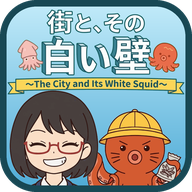
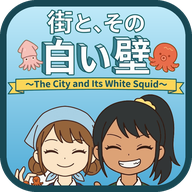
アイコンの 顔を チカと マキの 二人組に
Claude-Session: https://claude.ai/code/session_014rRhJFuEZwJnnUphhSEvc4

diff --git a/tools/make_icons.py b/tools/make_icons.py
@@ -1,17 +1,17 @@
 # -*- coding: utf-8 -*-
 """
-ナオと タコ一郎の 顔と、タイトルロゴ「街と、その白い壁」から、アプリの アイコン一式を つくる。
+チカと マキの 顔と、タイトルロゴ「街と、その白い壁」から、アプリの アイコン一式を つくる。
 （前作 cat-on-escape の tools/make_icons.py と おなじ 図がら）
 
-・海と 空の 色の 角丸の 上に、ロゴ（上）と ナオ・タコ一郎の 顔（下）を ならべる
+・海と 空の 色の 角丸の 上に、ロゴ（上）と チカ・マキの 顔（下）を ならべる
 ・小さい アイコン（64px 以下）は ロゴの 文字が つぶれるので、顔だけに する
 ・app/images/icon-32 / 180 / 192 / 512.png と、紹介ページ用の
   assets/icon.png（512px）・assets/favicon.png（64px）を 書き出す
 
 つかいかた:
-    python3 tools/make_icons.py [ナオの立ち絵] [タコ一郎の立ち絵] [ロゴ]
+    python3 tools/make_icons.py [チカの立ち絵] [マキの立ち絵] [ロゴ]
 例（なにも わたさなければ これ）:
-    python3 tools/make_icons.py app/images/story/nao-happy.png app/images/story/tako1-normal.png app/images/story/logo.png
+    python3 tools/make_icons.py app/images/story/chika-happy.png app/images/story/maki-happy.png app/images/story/logo.png
 
 必要なもの: pillow, numpy （pip install pillow numpy）
 """
@@ -62,32 +62,32 @@ def sky():
     return Image.fromarray(img, 'RGB').convert('RGBA')
 
 
-def place_heads(canvas, nao, tako, box_top, box_bottom, width_ratio):
-    """ナオ（左）と タコ一郎（右・すこし 小さく）の 顔を、下に そろえて ならべる"""
-    nao_h = box_bottom - box_top
-    tako_h = int(nao_h * 0.82)
-    nao = nao.resize((int(nao.width * nao_h / nao.height), nao_h), Image.LANCZOS)
-    tako = tako.resize((int(tako.width * tako_h / tako.height), tako_h), Image.LANCZOS)
-    overlap = int(tako.width * 0.12)            # すこし 重ねて なかよく
-    total = nao.width + tako.width - overlap
+def place_heads(canvas, left, right, box_top, box_bottom, width_ratio):
+    """チカ（左・小がら）と マキ（右・大がら）の 顔を、下に そろえて ならべる"""
+    right_h = box_bottom - box_top
+    left_h = int(right_h * 0.88)                  # チカは すこし 小さく（背の ちがい）
+    left = left.resize((int(left.width * left_h / left.height), left_h), Image.LANCZOS)
+    right = right.resize((int(right.width * right_h / right.height), right_h), Image.LANCZOS)
+    overlap = int(right.width * 0.16)            # すこし 重ねて なかよく
+    total = left.width + right.width - overlap
     scale = min(1.0, BASE * width_ratio / total)
     if scale < 1:
-        nao = nao.resize((int(nao.width * scale), int(nao.height * scale)), Image.LANCZOS)
-        tako = tako.resize((int(tako.width * scale), int(tako.height * scale)), Image.LANCZOS)
+        left = left.resize((int(left.width * scale), int(left.height * scale)), Image.LANCZOS)
+        right = right.resize((int(right.width * scale), int(right.height * scale)), Image.LANCZOS)
         overlap = int(overlap * scale)
-        total = nao.width + tako.width - overlap
+        total = left.width + right.width - overlap
     x0 = (BASE - total) // 2
-    canvas.alpha_composite(tako, (x0 + nao.width - overlap, box_bottom - tako.height))
-    canvas.alpha_composite(nao, (x0, box_bottom - nao.height))
+    canvas.alpha_composite(left, (x0, box_bottom - left.height))
+    canvas.alpha_composite(right, (x0 + left.width - overlap, box_bottom - right.height))
 
 
-def build(nao_path, tako_path, logo_path, small):
+def build(left_path, right_path, logo_path, small):
     canvas = sky()
-    nao, tako = head_of(nao_path), head_of(tako_path, 0.9)
+    left, right = head_of(left_path), head_of(right_path)
     if small:
-        place_heads(canvas, nao, tako, int(BASE * 0.06), BASE, 1.04)
+        place_heads(canvas, left, right, int(BASE * 0.06), BASE, 1.04)
     else:
-        place_heads(canvas, nao, tako, int(BASE * 0.47), BASE, 0.92)
+        place_heads(canvas, left, right, int(BASE * 0.49), BASE, 0.92)
         logo = Image.open(logo_path).convert('RGBA')
         w = int(BASE * 0.92)
         logo = logo.resize((w, int(logo.height * w / logo.width)), Image.LANCZOS)
@@ -102,15 +102,15 @@ def build(nao_path, tako_path, logo_path, small):
 
 def main():
     args = sys.argv[1:]
-    nao = args[0] if len(args) > 0 else 'app/images/story/nao-happy.png'
-    tako = args[1] if len(args) > 1 else 'app/images/story/tako1-normal.png'
+    left = args[0] if len(args) > 0 else 'app/images/story/chika-happy.png'
+    right = args[1] if len(args) > 1 else 'app/images/story/maki-happy.png'
     logo = args[2] if len(args) > 2 else 'app/images/story/logo.png'
-    for p in (nao, tako, logo):
+    for p in (left, right, logo):
         if not os.path.exists(p):
             print(f'× {p} が ありません')
             return 1
-    big = build(nao, tako, logo, small=False)
-    small = build(nao, tako, logo, small=True)
+    big = build(left, right, logo, small=False)
+    small = build(left, right, logo, small=True)
     for path, size in OUT:
         os.makedirs(os.path.dirname(path), exist_ok=True)
         (small if size <= SMALL else big).resize((size, size), Image.LANCZOS).save(path, optimize=True)

diff --git a/README.md b/README.md
@@ -36,7 +36,7 @@
 | `app/images/story/` | ストーリーの背景と立ち絵。台の 上の タコ・イカの 顔にも 使う（無くても 単色と名前の札で遊べる）。背景は 会話の 場面だけで、ゲームの 画面は 空色の 台 |
 | `tools/sim_check.js` | node で、24レベル すべてが 置いた ままで 動かないか・1回 以内の はねかえりで あたる 道が あるか・1マスの せまい 通路が ないか・毎回 いちばん よい 投げで 入れた タコ 以内に 勝てるかを 確かめる |
 | `tools/make_sprite.py` | 生成AIが出した立ち絵（上半身）を、グリッドから切り分けて背景を抜き、512pxにそろえる |
-| `tools/make_icons.py` | タイトルロゴと ナオ・タコ一郎の 顔から アプリのアイコン一式をつくる（前作と おなじ 図がら） |
+| `tools/make_icons.py` | タイトルロゴと チカ・マキの 顔から アプリのアイコン一式をつくる（前作と おなじ 図がら） |
 | `tools/fetch_goods.py` | 紹介ページの本・グッズの画像と価格を Amazon Creators API で取り直す（ほかのサイトと同じもの） |
 | `.github/workflows/goods.yml` | 上を毎日3時（JST）に実行して `assets/goods.json` を更新する |
 | `docs/dev-plan.md` | 開発の しくみ（ゲームの 中身・分担・データの 形） |
@@ -127,14 +127,14 @@
 
 ## アイコン
 
-`tools/make_icons.py` が タイトルロゴ（`app/images/story/logo.png`）と、ナオ・タコ一郎の 立ち絵から、
+`tools/make_icons.py` が タイトルロゴ（`app/images/story/logo.png`）と、チカ・マキの 立ち絵から、
 空と 海の 色の 角丸に ロゴ（上）と ふたりの 顔（下）を のせた アイコンを つくります
 （前作 cat-on-escape と おなじ 図がら）。64px 以下は ロゴが つぶれるので 顔だけです。
 
 ```
 pip install pillow numpy
 python3 tools/make_icons.py
-python3 tools/make_icons.py app/images/story/nao-happy.png app/images/story/tako1-normal.png app/images/story/logo.png
+python3 tools/make_icons.py app/images/story/chika-happy.png app/images/story/maki-happy.png app/images/story/logo.png
 ```
 
 `app/images/icon-32/180/192/512.png` と `assets/icon.png`（512px）・`assets/favicon.png`（64px）を 書き出します。
